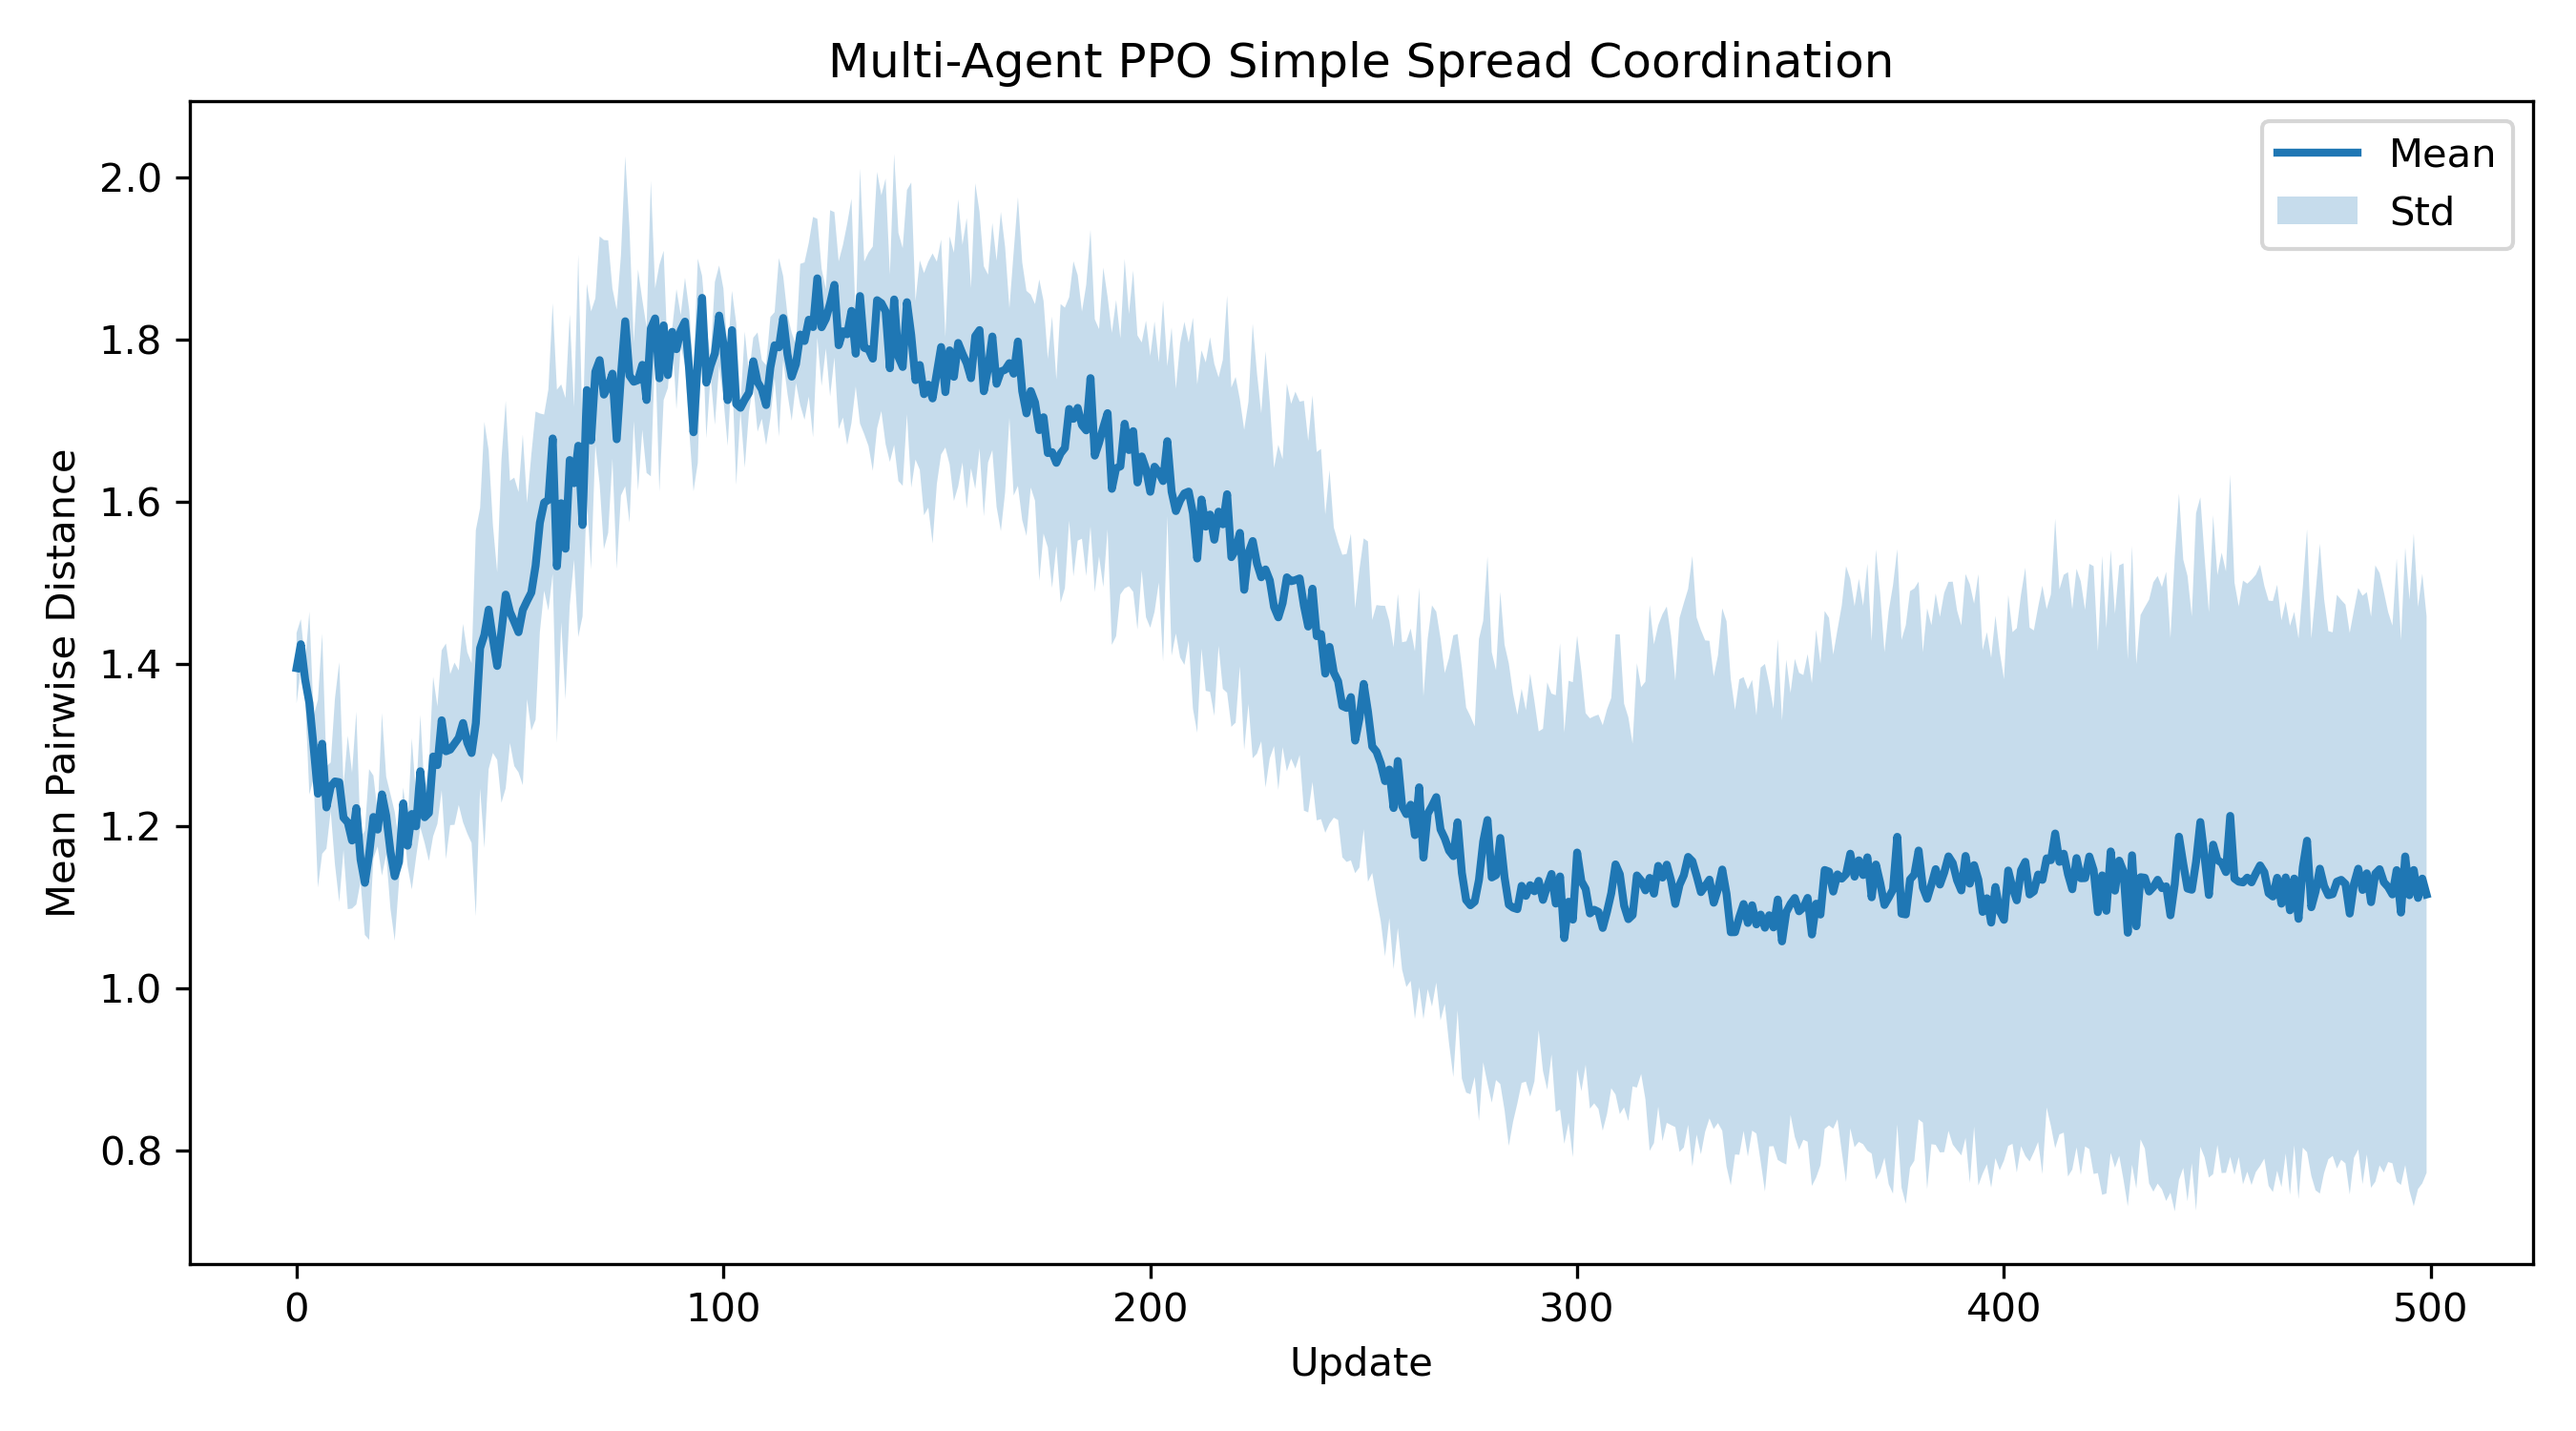
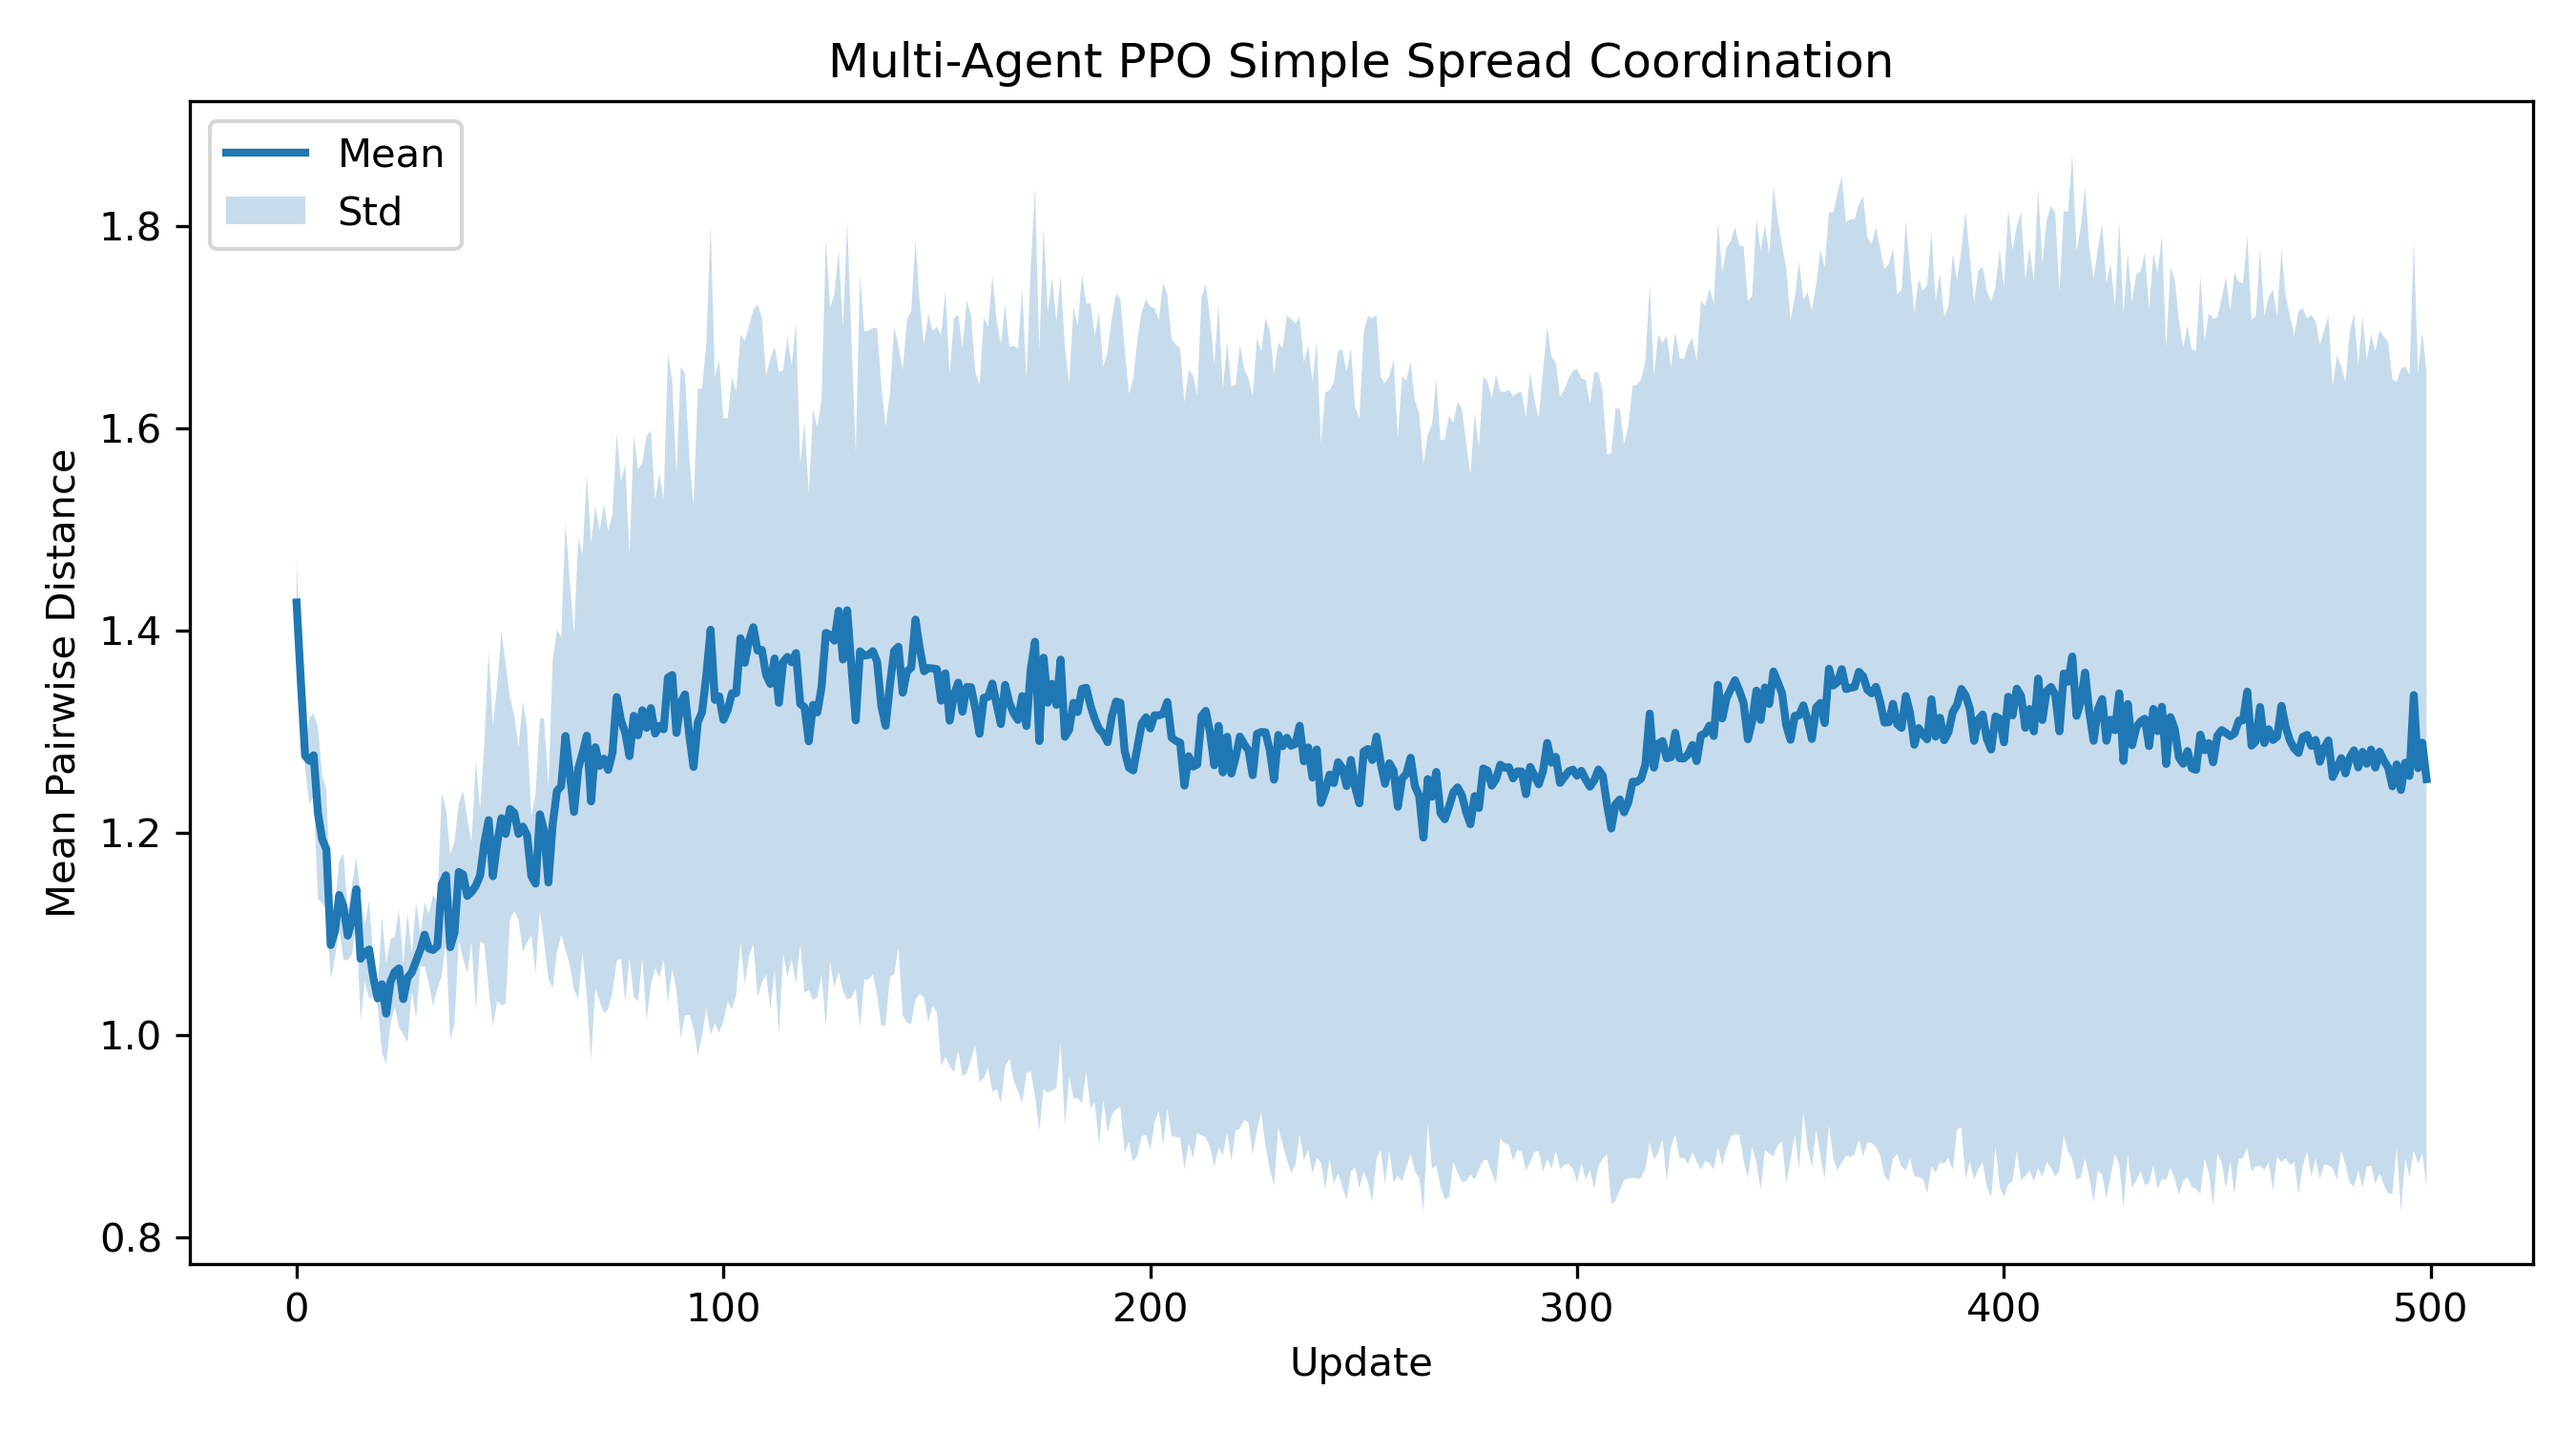
more changes, imma crash

diff --git a/ppo_simple_spread_baseline/train_simple_spread.py b/ppo_simple_spread_baseline/train_simple_spread.py
@@ -28,7 +28,7 @@ def run_episode(env, model, buffer, max_steps=25):
         logprobs = {}
         values = {}
 
-        # ❗ SINGLE OBS (intentionally weak baseline)
+        # SINGLE OBS (intentionally weak baseline)
         obs = torch.tensor(obs_dict[agents[0]], dtype=torch.float32)
 
         action, logprob = model.get_action(obs)
@@ -59,7 +59,7 @@ def run_episode(env, model, buffer, max_steps=25):
 
         obs_dict = next_obs
         ep_reward += reward
-        step_count += 1  # ✅ increment step counter
+        step_count += 1  #  increment step counter
 
         if done:
             break

diff --git a/ppo_simple_spread_baseline/utils.py b/ppo_simple_spread_baseline/utils.py
@@ -15,7 +15,7 @@ def coordination_metric(env):
     positions = []
 
     for i in range(n_agents):
-        start = i * 8   # 👈 IMPORTANT: stride depends on MPE layout
+        start = i * 8   # IMPORTANT: stride depends on MPE layout
         pos = state[start:start+pos_dim]
         positions.append(pos)
 

diff --git a/ppo_simple_spread_adapted/ppo.py b/ppo_simple_spread_adapted/ppo.py
@@ -5,10 +5,10 @@ class MultiAgentPPO:
     def __init__(
         self,
         model,
-        lr=3e-4,
+        lr=1e-4,
         clip=0.2,
         value_coef=0.5,
-        entropy_coef=0.01,
+        entropy_coef=0.02,
         max_grad_norm=0.5,
     ):
         self.model = model

diff --git a/ppo_simple_spread_adapted/train.py b/ppo_simple_spread_adapted/train.py
@@ -81,8 +81,8 @@ def collect_rollout(env, model, buffer, rollout_steps):
 def train(
     seed,
     num_agents=3,
-    updates=400,
-    rollout_steps=1024,
+    updates=500,
+    rollout_steps=2048,
     max_cycles=25,
     ppo_epochs=10,
     batch_size=256,
